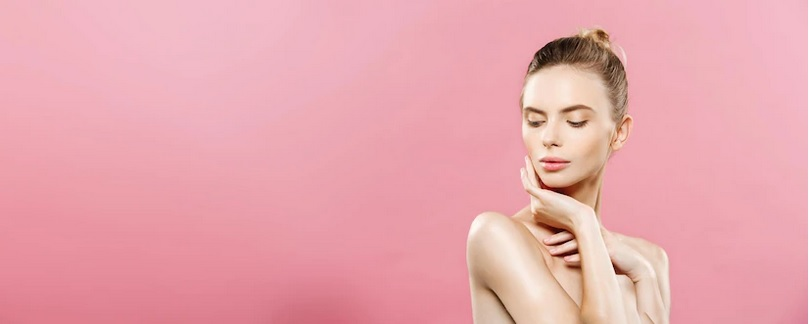
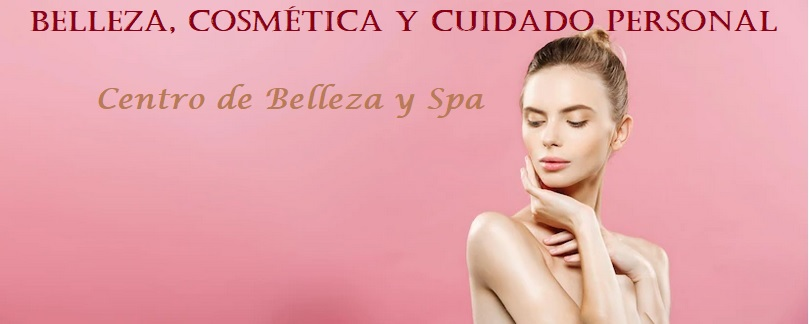
Se modifica provicionalmente cover, se modifica SIDE-BAR

Changed region(s): [[0.0309, 0.0309, 0.958, 0.0926], [0.1236, 0.2469, 0.618, 0.3704]]

diff --git a/index.html b/index.html
@@ -5,7 +5,7 @@
     <meta http-equiv="X-UA-Compatible" content="IE=edge">
     <meta name="viewport" content="width=device-width, initial-scale=1.0">
     <title>Spa Bellely</title>
-    <link rel="shortcut icon" href="img2/logo01.jpg">
+    <link rel="shortcut icon" href="img2/logo01-removebg-preview.png">
     <link rel="stylesheet" href="https://cdnjs.cloudflare.com/ajax/libs/font-awesome/5.11.2/css/all.min.css">
     <link rel="preconnect" href="https://fonts.googleapis.com">
     <link rel="preconnect" href="https://fonts.gstatic.com" crossorigin>
@@ -15,38 +15,7 @@
 </head>
 <body>
     <div class="he-des">
-        <h5>Belleza, cosmética y cuidado personal</h5>
-    </div>
-    <header>
-        <!--
-        <div class="container">
-
-            <nav class="nav">
-                <div class="menu-toggle">
-                    <i class="fas fa-bars"></i>
-                    <i class="fas fa-times"></i>
-                </div>
-                <a href="#" class="logo"></a>
-                <ul class="nav-list">
-                    <li class="nav-item">
-                        <a href="#"class="nav-link active">Inicio</a>
-                    </li>
-                    <li class="nav-item">
-                        <a href="#"class="nav-link">Menu</a>
-                    </li>
-                    <li class="nav-item">
-                        <a href="#"class="nav-link">Reservaciones</a>
-                    </li>
-                    <li class="nav-item">
-                        <a href="#"class="nav-link">Servicios</a>
-                    </li>
-                    <li class="nav-item">
-                        <a href="#"class="nav-link">Contacto</a>
-                    </li>
-                </ul>
-            </nav>
-        </div>-->
-        <!--* SIDE BAR *-->
+    <!--* SIDE BAR *-->
         <div class="sidebar">
             <nav>
                 <ul>
@@ -58,26 +27,26 @@
                     </li>
                     <li>
                         <a href="#">
-                            <i class="fa fa fa-dashboard"></i>
-                            <p>Dashboard</p>
-                        </a>
-                    </li>
-                    <li>
-                        <a href="#">
-                            <i class="fa fa-line-chart"></i>
-                            <p>Analytics</p>
-                        </a>
-                    </li>
-                    <li>
-                        <a href="#">
                             <i class="fa fa-newspaper-o"></i>
-                            <p>Newfeeds</p>
+                            <p>Noticias</p>
+                        </a>
+                    </li>
+                    <li>
+                        <a href="#">
+                            <i class="fa fa-shopping-bag"></i>
+                            <p>Servicios</p>
+                        </a>
+                    </li>
+                    <li>
+                        <a href="#">
+                            <i class="fa fa-address-book"></i>
+                            <p>Citas</p>
                         </a>
                     </li>
                     <li>
                         <a href="#">
                             <i class="fa fa-user"></i>
-                            <p>Portafolio</p>
+                            <p>Contacto</p>
                         </a>
                     </li>
                 </ul>
@@ -126,9 +95,9 @@
         <div class="container">
             <div class="global">
                 <h2 class="h2-sub">
-                    <span class="fil">P</span>latillos
+                    <span class="fil"></span>
                 </h2>
-                <h1 class="head">Lorem ipsum dolor sit amet consectetur adipisicing elit. Laboriosam eveniet accusantium quibusdam nostrum unde mollitia quod quasi placeat illo aut ipsam, fugit, nisi quam esse facere saepe temporibus error eius.</h1>
+                <h1 class="head"></h1>
             </div>
         </div>
     </section>

diff --git a/css/style.css b/css/style.css
@@ -20,16 +20,17 @@ body {
     overflow-x: hidden;
     margin-left: 6rem;
     margin-right: 1rem;
+    background-color:#f2b5c0;
 }
 
 /** SIDE BAR **/
 .sidebar {
     height: 100vh;
-    width: 5rem;
+    width: 6rem;
     background-color: #e08594;
     transition: width 0.3s;
     overflow: hidden;
-    position:absolute;
+    position:fixed;
     top:0;
     left: 0;
     }
@@ -40,9 +41,8 @@ body {
     }
 
  nav {
-    height: 20vh;
+    height: 60vh;
     min-height: 50px;
-    height: 20rem;
     padding: 20px;
     }
 
@@ -79,10 +79,10 @@ li a:hover {
     }
 
 i.fa {
-    font-size: 30px;
+    font-size: 50px;
     text-align:left;    
     letter-spacing: 15px;
-   
+    margin-top: 0;
     }
 
 li p {
@@ -90,8 +90,8 @@ li p {
     font-size: 24px;
     text-align:right;
     letter-spacing: 0.3px;
-    font-weight: 10px;
-    margin: 0.3;
+    font-weight: 5px;
+    margin: 0px;
     color:white;
     }
 /**FIN**/
@@ -228,14 +228,14 @@ header {
 .hero {
     width: 100%;
     height: 100%;
-    background: url("../img2/bellely-head.jpg") center no-repeat;
+    background: url("../img2/hedes-completo.png") center no-repeat;
     background-size:contain;
-    display: flex;
+    display:flex;
     align-items: center;
     text-align: center;
-    margin-top: 5rem;
-    padding: 25vh !important;
-}
+    margin-top: 0;
+    padding: 200px;
+    }
 
 .h2-sub {
     font-size: 3rem;
@@ -272,14 +272,14 @@ header {
 /**REVISAR**/
 .he-des h5 {
     color: #570f1d;
-    font-size: 1.4rem;
+    font-size: 1.5rem;
     font-weight: 900;
     text-transform: uppercase;
     margin-top: 1.5rem;
-    margin-bottom: 1.2rem;
-    letter-spacing: 3px;
-    margin-right: -3px;
-    overflow-wrap: break-word;
+    margin-bottom: 0.5rem;
+    letter-spacing: 1.5px;
+    margin-right: 3px;
+    overflow-wrap:inherit;
     
 }
 
@@ -345,8 +345,8 @@ header {
 /*menu*/
 
 .taste {
-    background: url("../img/taste.jpg") center no-repeat;
-    background-size: cover;
+    background: url("../img2/serv01-micropig.jpg") center no-repeat;
+    background-size:contain;
 }
 
 .bt {
